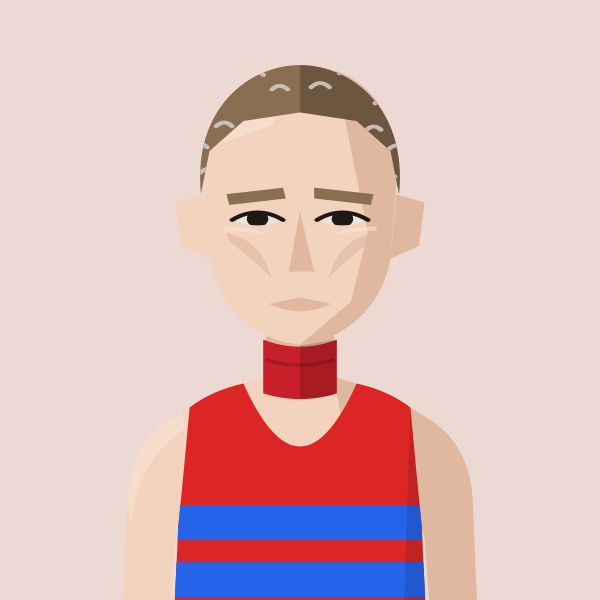
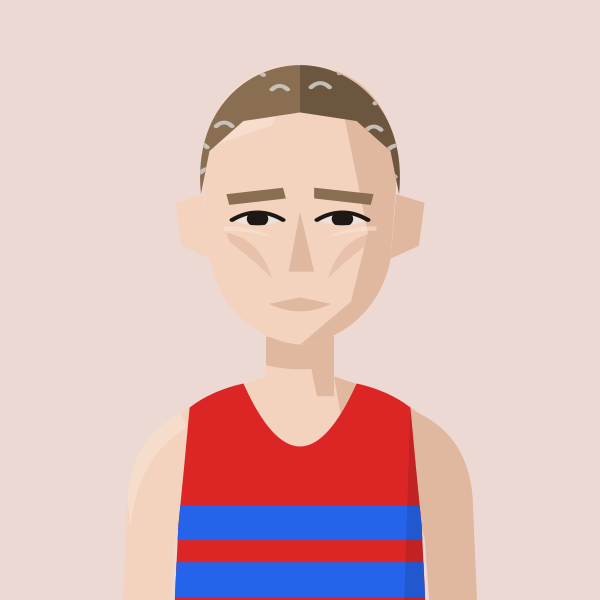
Tom South: no neck buff
Claude-Session: https://claude.ai/code/session_01MgmDWhFqnSSnP4iBLKXUZC

Changed region(s): [[0.42, 0.57, 0.57, 0.69]]

diff --git a/files/index.html b/files/index.html
@@ -581,7 +581,7 @@ return m;})();
 const portraitFile=(name,club)=>{const k=normalizeNameForCompare(name||'').replace(/\s*\(([^)]*)\)$/,(m,c)=>CLUBS[c.toUpperCase()]?'':m);const a=PORTRAITS[k];if(a&&a.club===club)return a.file;const b=PORTRAITS[k+'@'+club];return b?b.file:null;};
 // Athlete header figure: superstar portrait if we have one, else a grey runner in the club vest, else the plain vest icon
 // Changes whenever any portrait changes (set by tools/build_og.py), so browsers fetch fresh images instead of old cached ones
-const PORTRAIT_V='f126dc4c';
+const PORTRAIT_V='324e8a1c';
 const AthletePortrait=({name,club,w,fill,onClick})=>{const[failed,setFailed]=useState(false);const file=portraitFile(name,club);const src=file?`/portraits/athletes/${file}.svg?v=${PORTRAIT_V}`:PORTRAIT_CLUBS.has(club)?`/portraits/clubs/${club.replace(/\//g,'').replace(/&/g,'and')}.svg?v=${PORTRAIT_V}`:null;if(!src||failed)return<div onClick={onClick} className={onClick?'cursor-pointer':''}><ClubShield club={club} size={w}/></div>;const h=Math.round(w*148/126),ih=Math.round(w*1.4);if(fill)return<div onClick={onClick} className="cursor-pointer" style={{alignSelf:'stretch',minHeight:h,aspectRatio:'126 / 148',flexShrink:0,position:'relative',borderRadius:4,overflow:'hidden'}}><img src={src} alt={file?`Portrait of ${name.replace(/\s*\([^)]*\)$/,'')}`:`Runner in ${CLUBS[club]?.name||club} vest`} style={{position:'absolute',top:0,left:0,display:'block',width:'100%',height:'auto'}} onError={()=>setFailed(true)}/></div>;return<div style={{width:w,height:h,borderRadius:4,overflow:'hidden',flexShrink:0}}><img src={src} alt={file?`Portrait of ${name.replace(/\s*\([^)]*\)$/,'')}`:`Runner in ${CLUBS[club]?.name||club} vest`} width={w} height={ih} style={{display:'block',width:w,height:ih}} onError={()=>setFailed(true)}/></div>;};
 const getClubVestSvg=(club)=>{
   const p="M3 0 L6 0 Q7 4 10 5 Q13 4 14 0 L17 0 L17 20 L3 20 Z";

diff --git a/tools/gen_portraits.py b/tools/gen_portraits.py
@@ -736,7 +736,7 @@ save("tony-harran", figure("HHH", skin=1, hair="tuftrecede", hair_colour="#4A342
 save("robert-elphick", figure("KEN", skin=1, hair="tousled", hair_colour="#3A2820"))
 save("david-ogden", figure("SLH", skin=1, hair="horseshoe", hair_colour="#A89880", gaunt=True, creases=True, brow_colour="#8A7A66"))
 save("simon-coombes", figure("HHH", skin=1, hair="croppeak", hair_colour="#7A6A58", greying=True, gaunt=True))
-save("tom-south", figure("DUL", skin=1, hair="crop", hair_colour="#8A6E52", greying=True, gaunt=True, buff="#C8202A"))
+save("tom-south", figure("DUL", skin=1, hair="crop", hair_colour="#8A6E52", greying=True, gaunt=True))
 save("peter-giles", figure("H/W", skin=1, hair="slick", hair_colour="#BDB8AE", facial="goatee", facial_colour="#A8A39A", brow_colour="#8C8780", gaunt=True, creases=True, sleeves="#D8262E"))
 save("peter-giles-thh", figure("THH", skin=1, hair="slick", hair_colour="#BDB8AE", facial="goatee", facial_colour="#A8A39A", brow_colour="#8C8780", gaunt=True, creases=True, sleeves="#D8262E"))
 save("mike-farmery", figure("THH", skin=1, hair="horseshoe", hair_colour="#6E6254", glasses=True, brow_colour="#6E6254", gaunt=True, creases=True))
